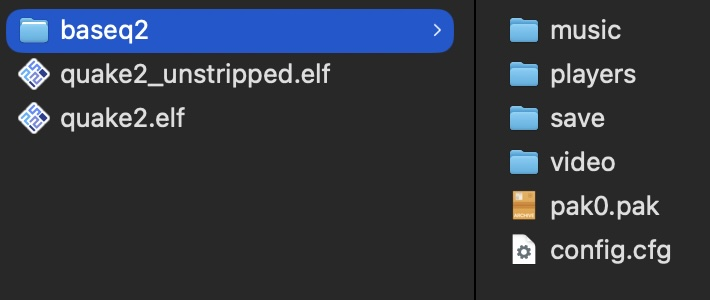
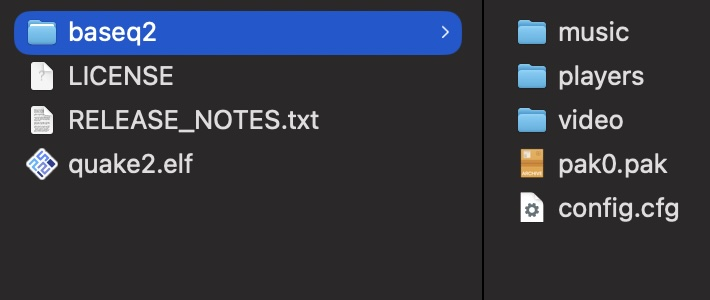
Adding release notes and updating make Github release helper script.
The generated release zip now contains the release notes with attribution and a copy of the license file. Unstripped ELF is no longer included by default.

diff --git a/README.md b/README.md
@@ -181,9 +181,11 @@ with `STRIP_ELF=0` to ship the unstripped ELF as `quake2.elf` instead.
 | `make clean_vu` | Removes only the assembled VU microprograms (`build/vu/`). |
 
 To cut a release, [make_github_release.sh](src/tools/scripts/make_github_release.sh)
-`[-f] [version]` runs `make clean`, `make` and `make release`, then packages both ELFs with
-an empty `baseq2/` tree and the committed `config.cfg` into `github_rel_<version>/` (one
-zip per config). `version` defaults to `VERSION` in `src/common/q_common.h`.
+`[-f] [-u] [version]` runs `make clean`, `make` and `make release`, then packages each
+config's `quake2.elf` with `LICENSE`, [RELEASE_NOTES.txt](misc/RELEASE_NOTES.txt) (its
+`@VERSION@` and `@COMMIT@` filled in, so it points to the exact source), an empty `baseq2/`
+tree and the committed `config.cfg` into `github_rel_<version>/` (one zip per config). `-u`
+adds `quake2_unstripped.elf`. `version` defaults to `VERSION` in `src/common/q_common.h`.
 
 The host tools and the assembled VU microprograms are config-independent (no EE compiler
 flag reaches either), so they are built once and shared, outside `build/<config>/`.
@@ -1143,10 +1145,15 @@ the `_clang-format` file at the root of the repo.
 
 ## Special thanks
 
-- [Wolf3s](https://github.com/Wolf3s).
+- [Wolf3s](https://github.com/Wolf3s) for the help playtesting.
 - The [PS2DEV][link_ps2_dev] project and its contributors.
 - The [PCSX2](https://github.com/pcsx2/pcsx2) project and its contributors.
 - [id Software](https://www.idsoftware.com/en) for making some of their most influential games open source.
+
+This project also includes or utilizes other Open Source libraries:
+- [miniz](https://github.com/richgel999/miniz)
+- [dlmalloc](https://gee.cs.oswego.edu/dl/html/malloc.html)
+- [ps2sdk](https://github.com/ps2dev/ps2sdk)
 
 ---
 
